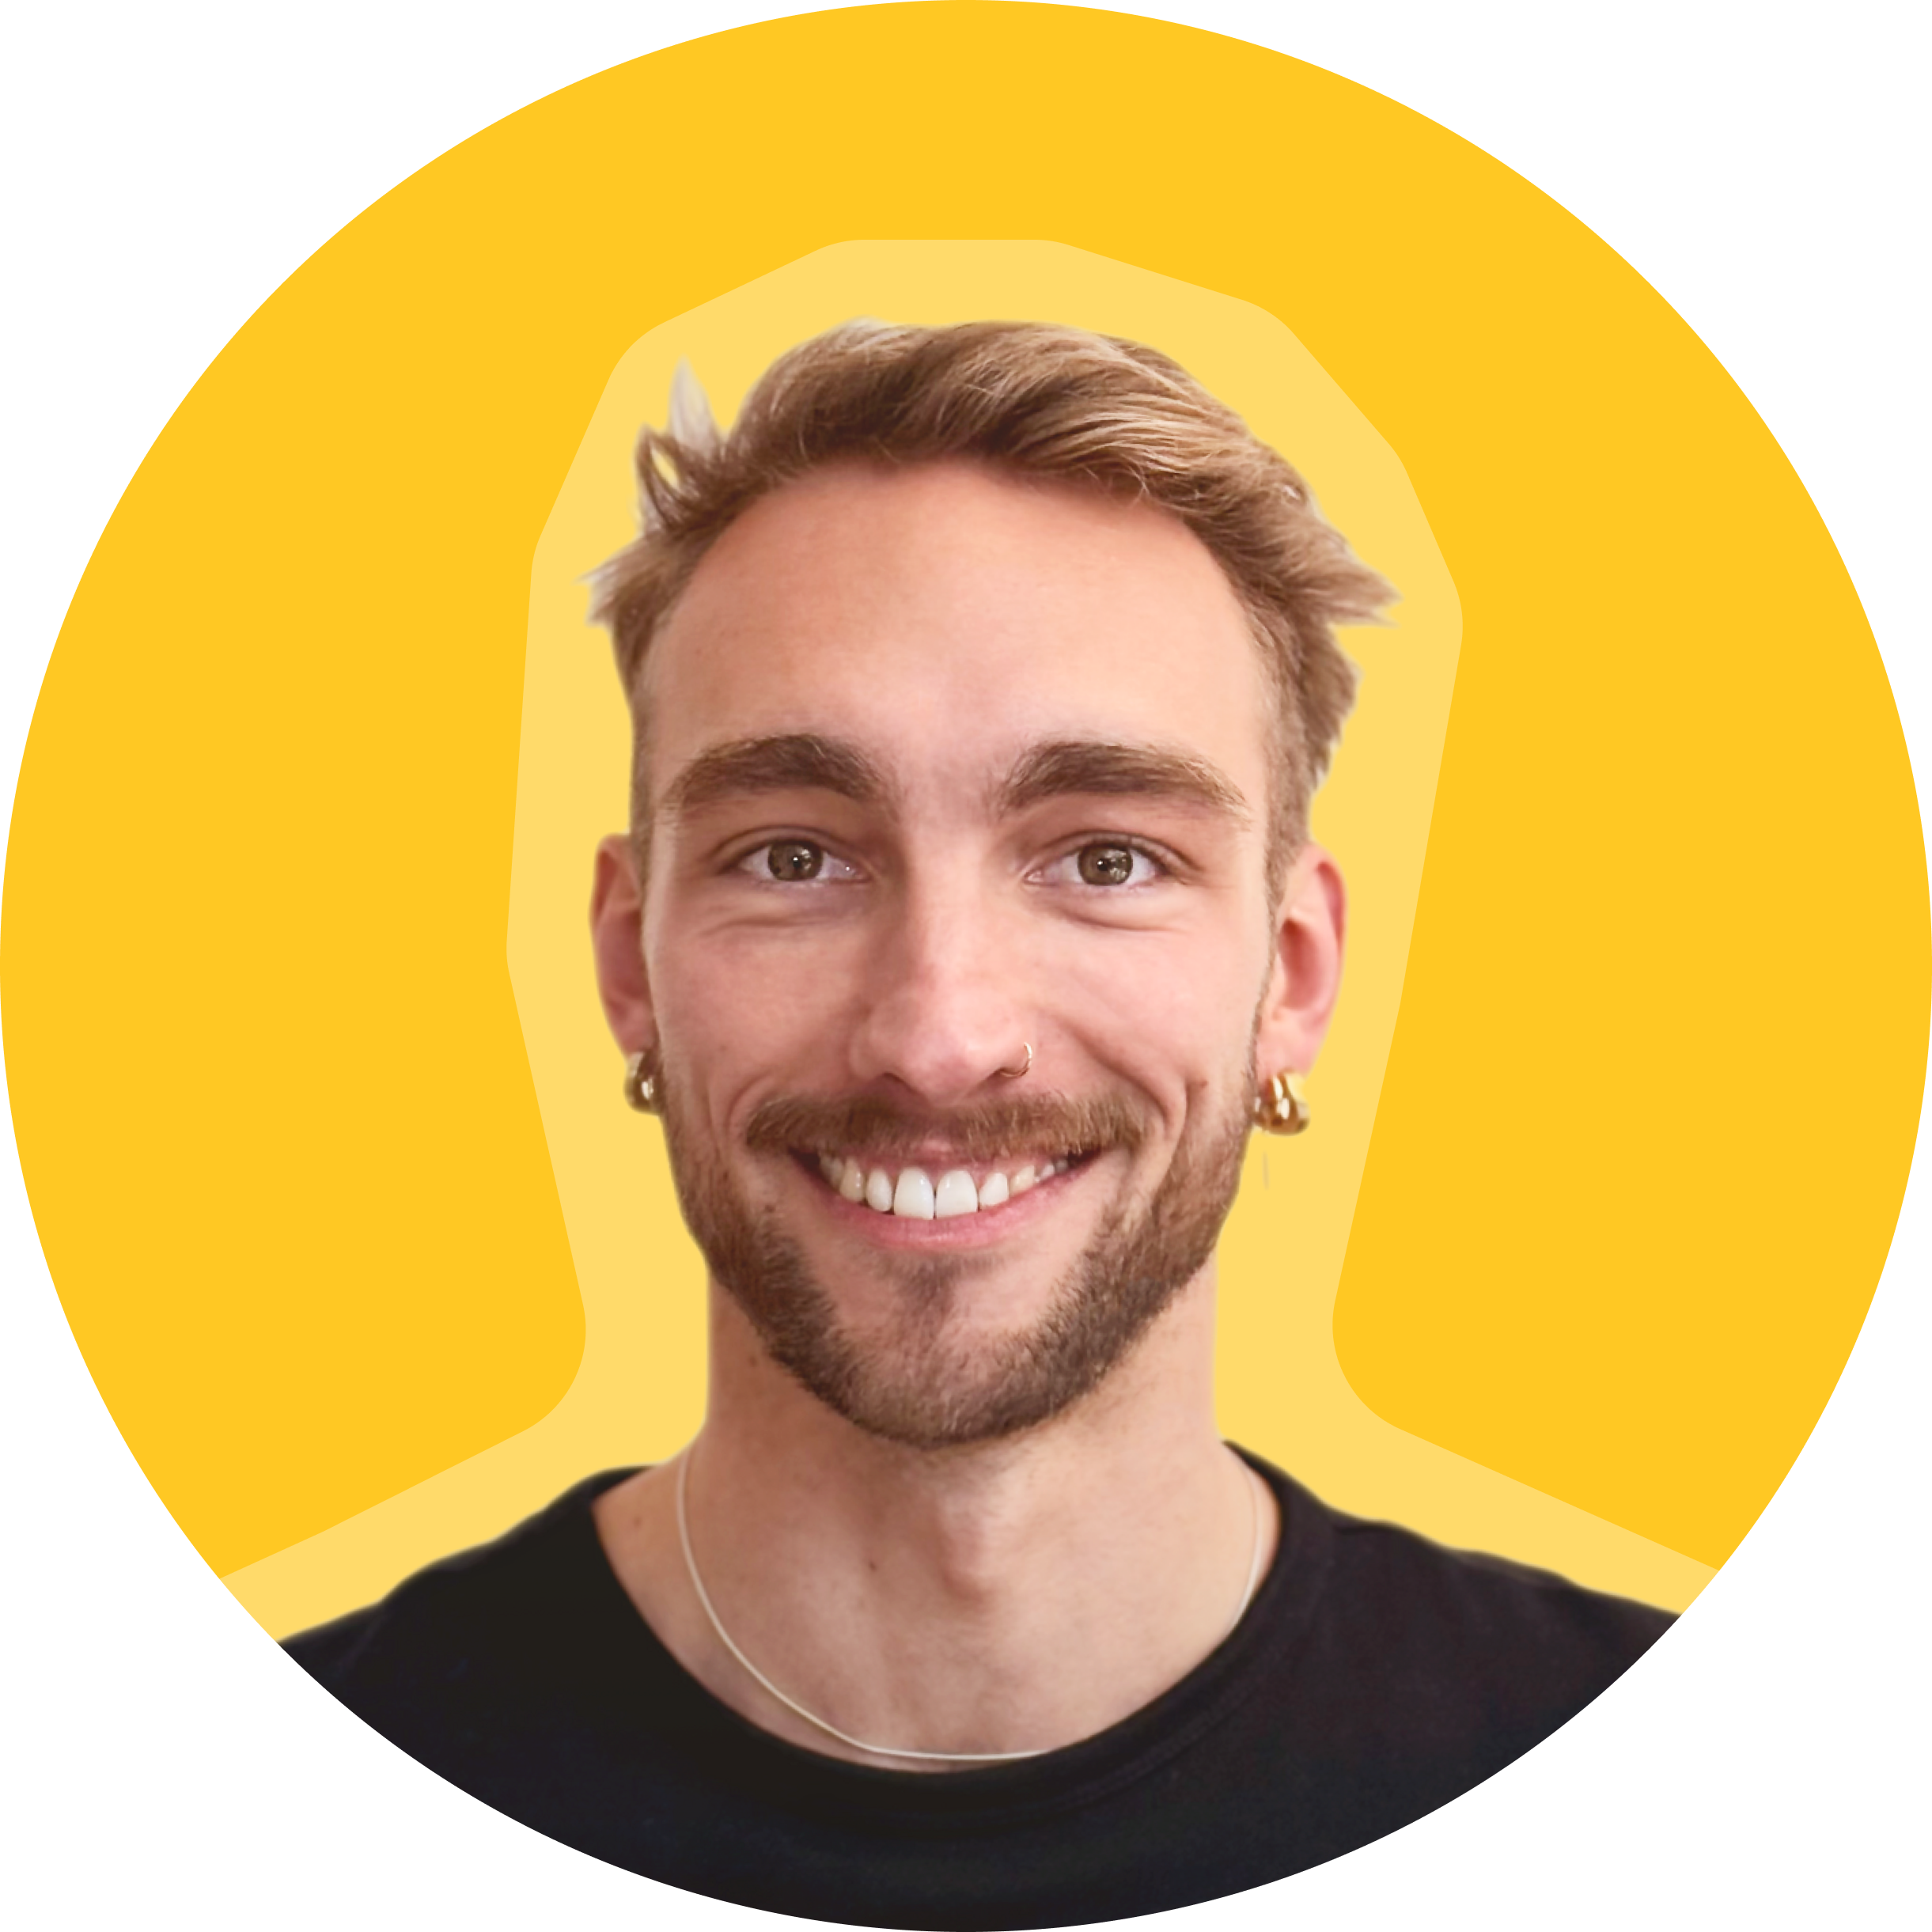
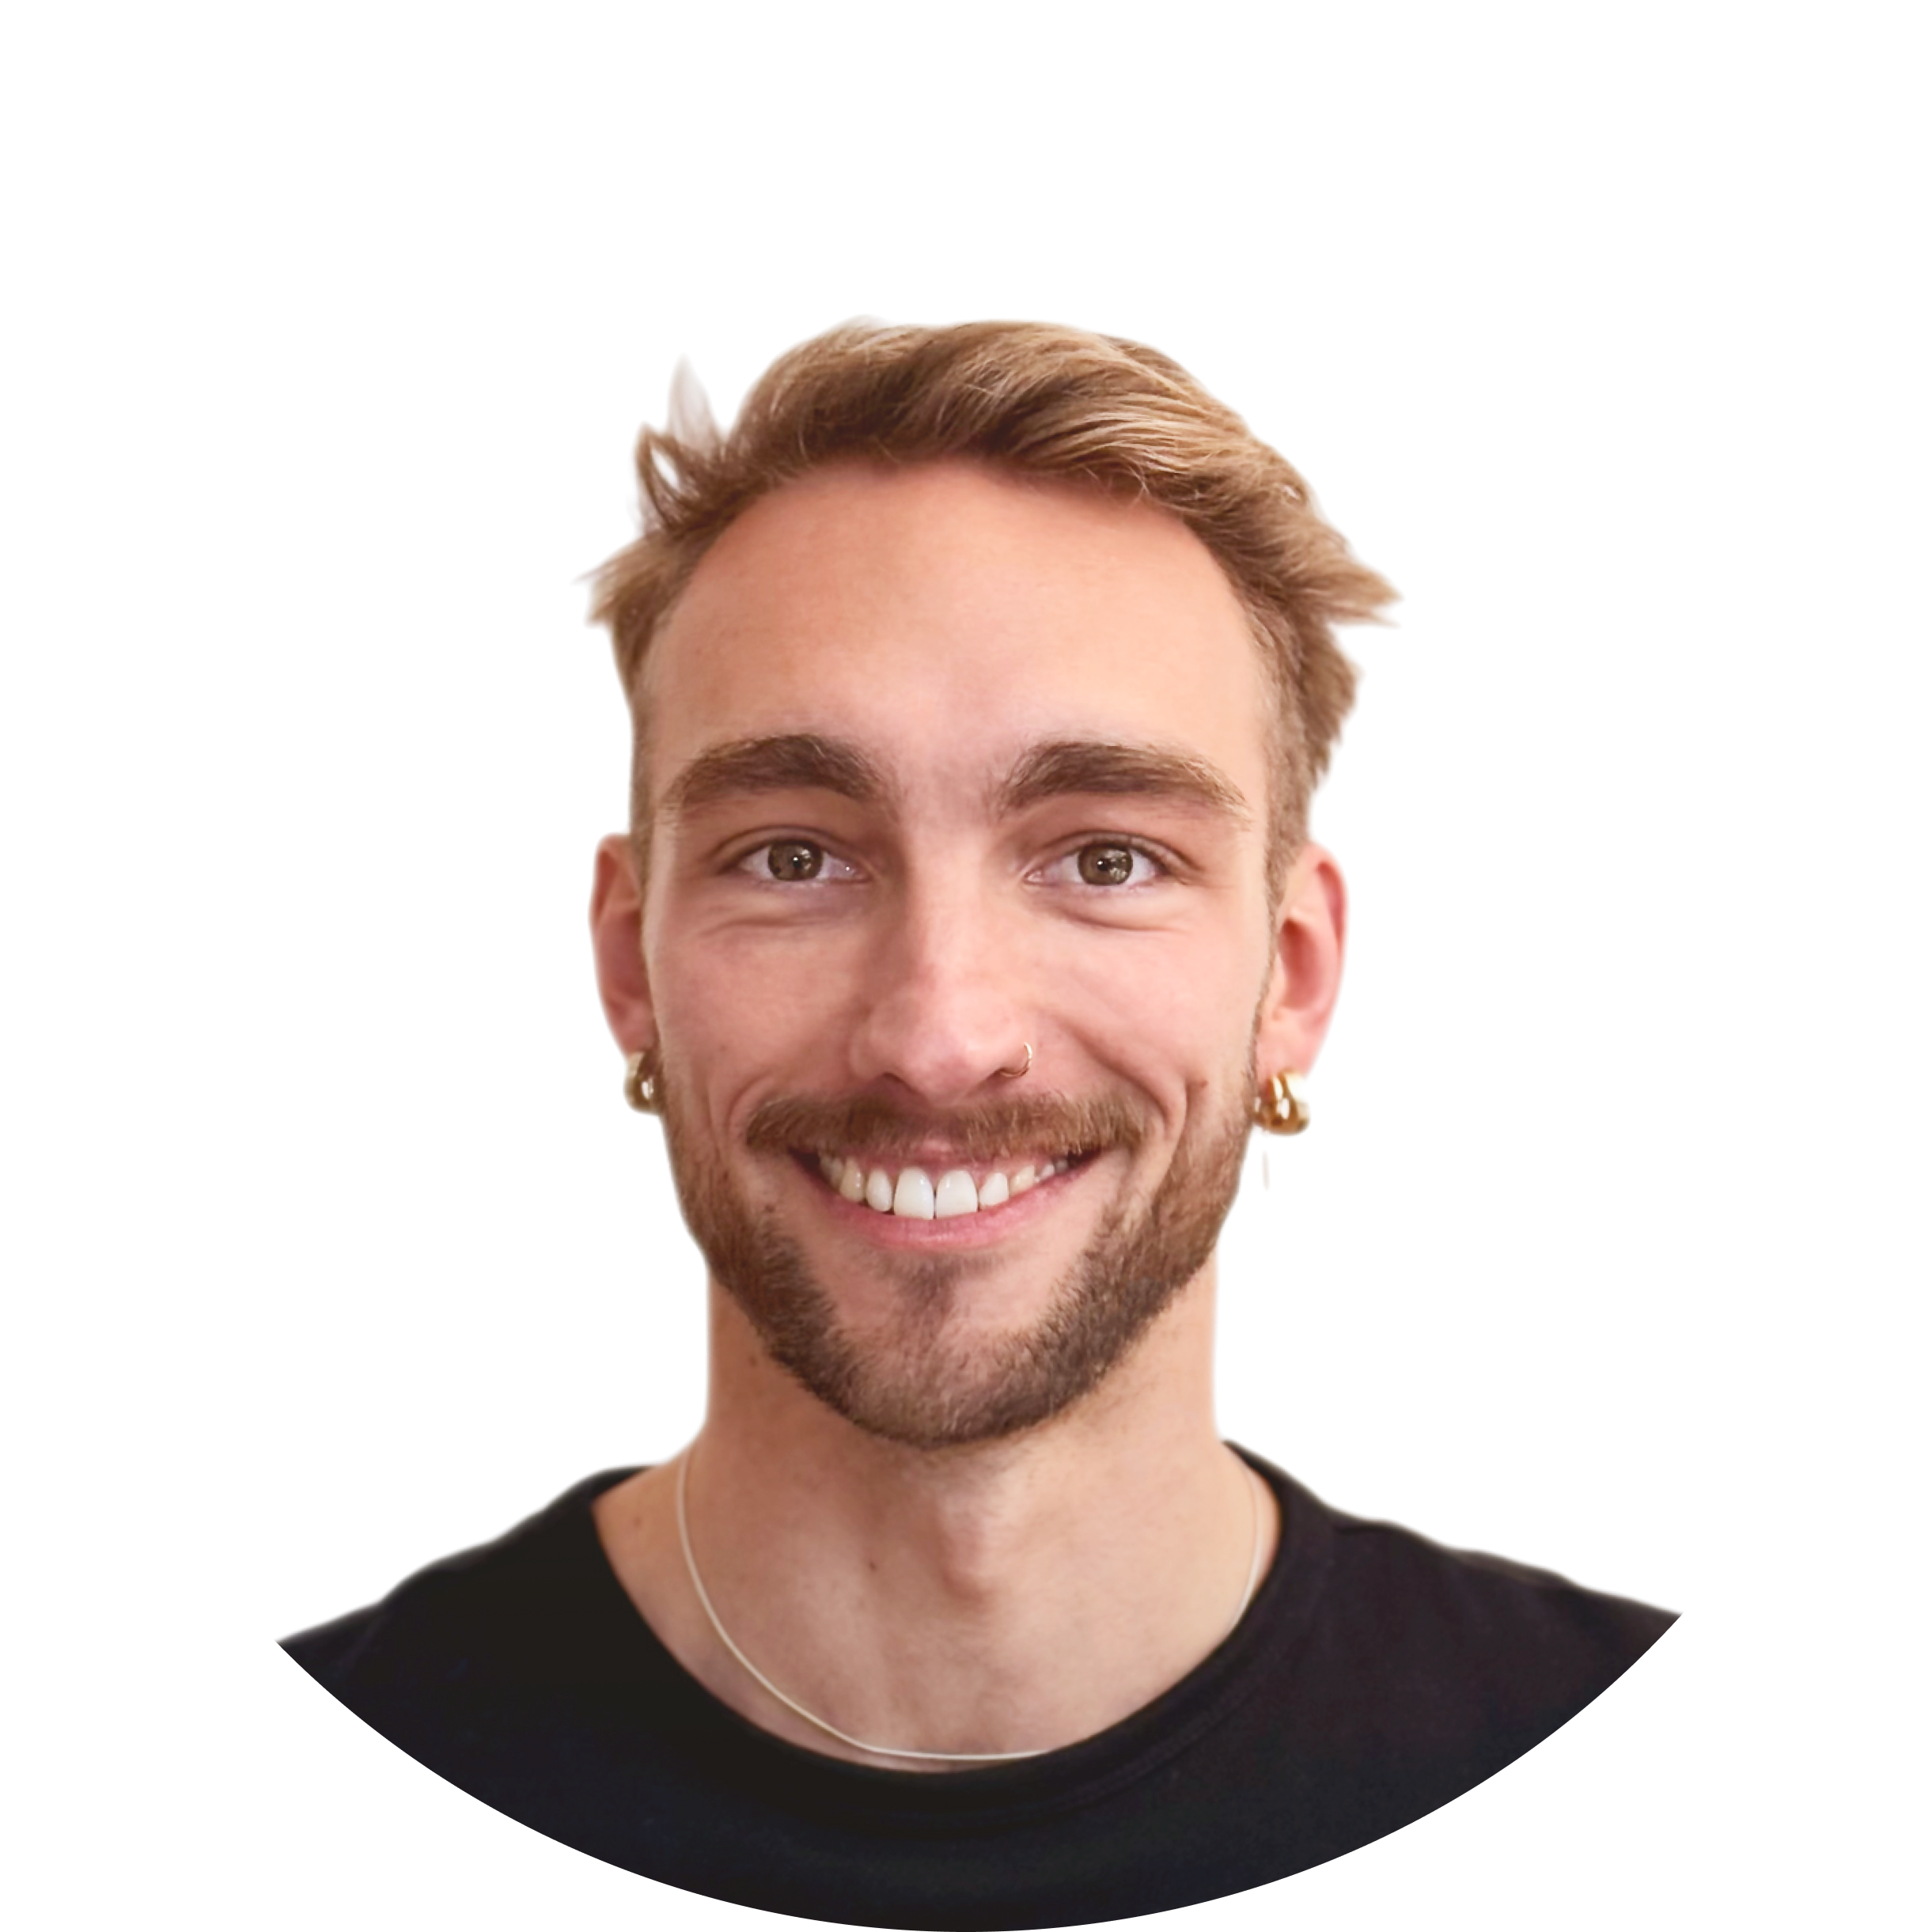
change profile image to be transparent

diff --git a/css/style.css b/css/style.css
@@ -445,7 +445,7 @@ img.top-logo {
     width: 180px;
     margin: 18vh 0 1vh 0;
 	border-radius: 50%;
-    background-color: var(--secondary);
+    background-color: var(--tertiary);
 	/* box-shadow: 0 2px 14px 0px #444; */
 }
 